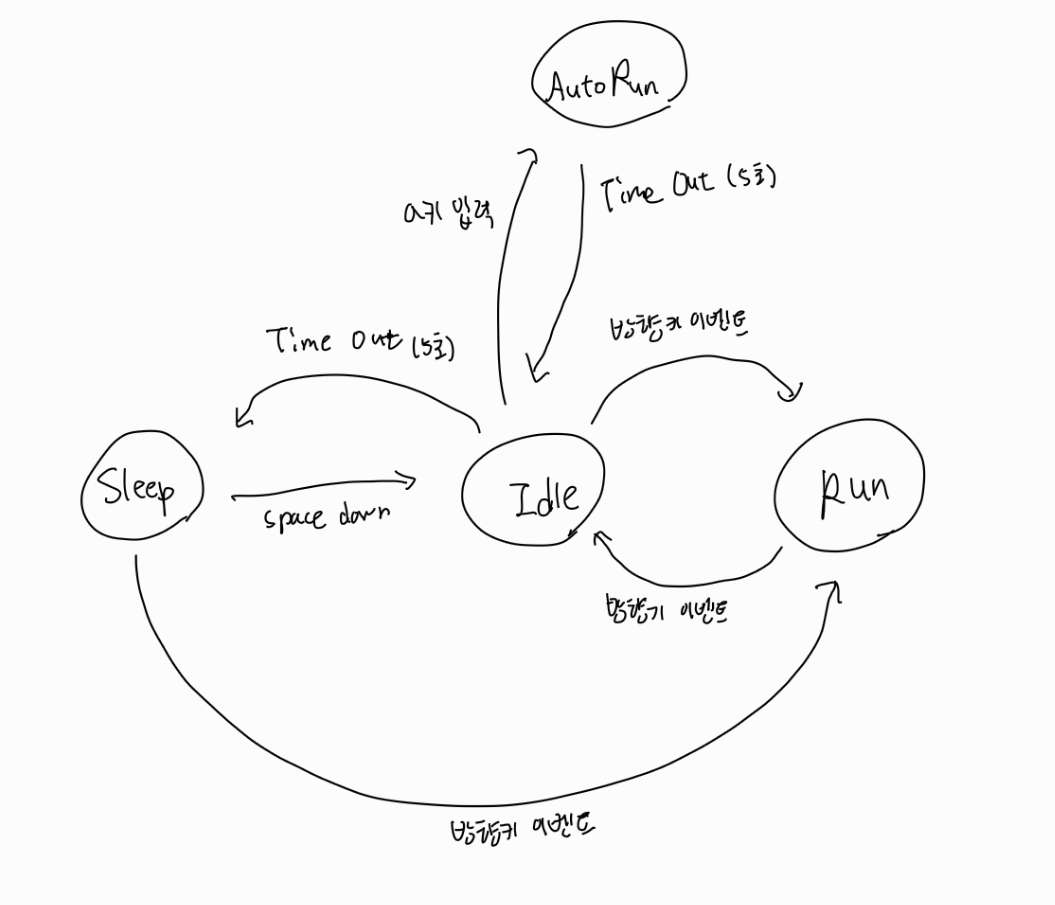
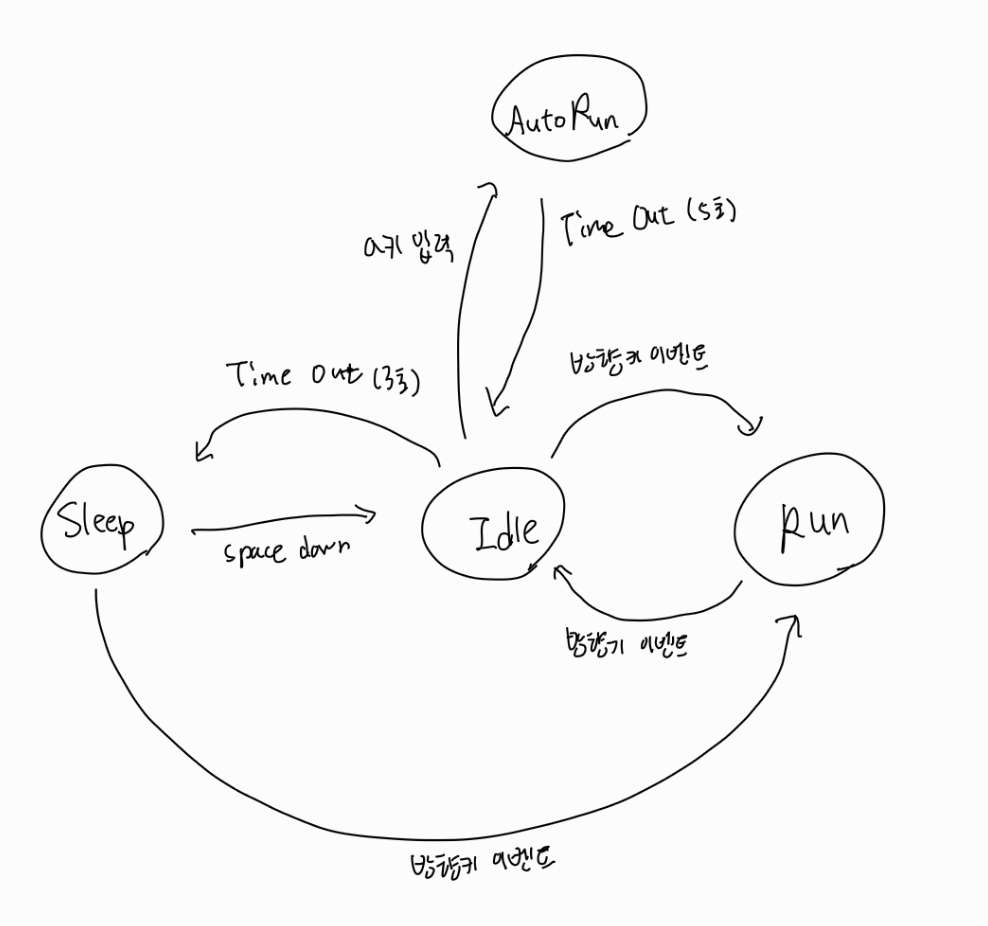
Drill09 제출 2022182018 서가은

diff --git a/boy.py b/boy.py
@@ -1,9 +1,11 @@
 # 이것은 각 상태들을 객체로 구현한 것임.
 
-from pico2d import load_image, SDL_KEYDOWN, SDL_KEYUP, SDLK_SPACE, SDLK_RIGHT, SDLK_LEFT, get_time
+from pico2d import load_image, SDL_KEYDOWN, SDL_KEYUP, SDLK_SPACE, SDLK_RIGHT, SDLK_LEFT, SDLK_a, get_time
 import math
 
 #define event check functions
+def a_down(e):
+    return e[0] == 'INPUT' and e[1].type == SDL_KEYDOWN and e[1].key == SDLK_a
 def space_down(e):
     return e[0] == 'INPUT' and e[1].type == SDL_KEYDOWN and e[1].key == SDLK_SPACE
 
@@ -21,6 +23,39 @@ def left_down(e):
 
 def left_up(e):
     return e[0] == 'INPUT' and e[1].type == SDL_KEYUP and e[1].key == SDLK_LEFT
+
+class AutoRun:
+    @staticmethod
+    def enter(boy, e):
+
+        if boy.action == 2:
+             boy.dir, boy.action = -1, 0
+        elif boy.action == 3:
+            boy.dir, boy.action = 1, 1
+        boy.auto_run_start_time = get_time()
+
+    @staticmethod
+    def exit(boy, e):
+        pass
+
+    @staticmethod
+    def do(boy):
+        if boy.x < 0:
+            boy.dir, boy.action = 1, 1
+        elif boy.x > 800:
+            boy.dir, boy.action = -1, 0
+
+        boy.frame = (boy.frame + 1) % 8
+        boy.x += boy.dir * 10
+        if get_time() - boy.auto_run_start_time > 5:
+            boy.state_machine.handle_event(('TIME_OUT' ,0))
+        pass
+
+    @staticmethod
+    def draw(boy):
+        boy.image.clip_draw(boy.frame * 100, boy.action * 100, 100, 100, boy.x+30, boy.y+30,200,200)
+
+    pass
 
 class Sleep:
     @staticmethod
@@ -101,9 +136,10 @@ class StateMachine:
         self.cur_state = Idle
         self.boy = boy
         self.transitions = {
-            Idle: {right_down:Run, left_down:Run, left_up:Run, right_up:Run, time_out: Sleep},
-            Run:{right_down:Idle, left_down:Idle, left_up:Idle, right_up:Idle,},
-            Sleep: {right_down:Run, left_down:Run, left_up:Run, right_up:Run,space_down: Idle}
+            Idle: {a_down:AutoRun, right_down:Run, left_down:Run, left_up:Run, right_up:Run, time_out: Sleep},
+            Run:{right_down:Idle, left_down:Idle, left_up:Idle, right_up:Idle},
+            Sleep: {right_down:Run, left_down:Run, left_up:Run, right_up:Run,space_down: Idle},
+            AutoRun : {time_out: Idle}
         }
     def handle_event(self, e):
         for check_event, next_state in self.transitions[self.cur_state].items():
